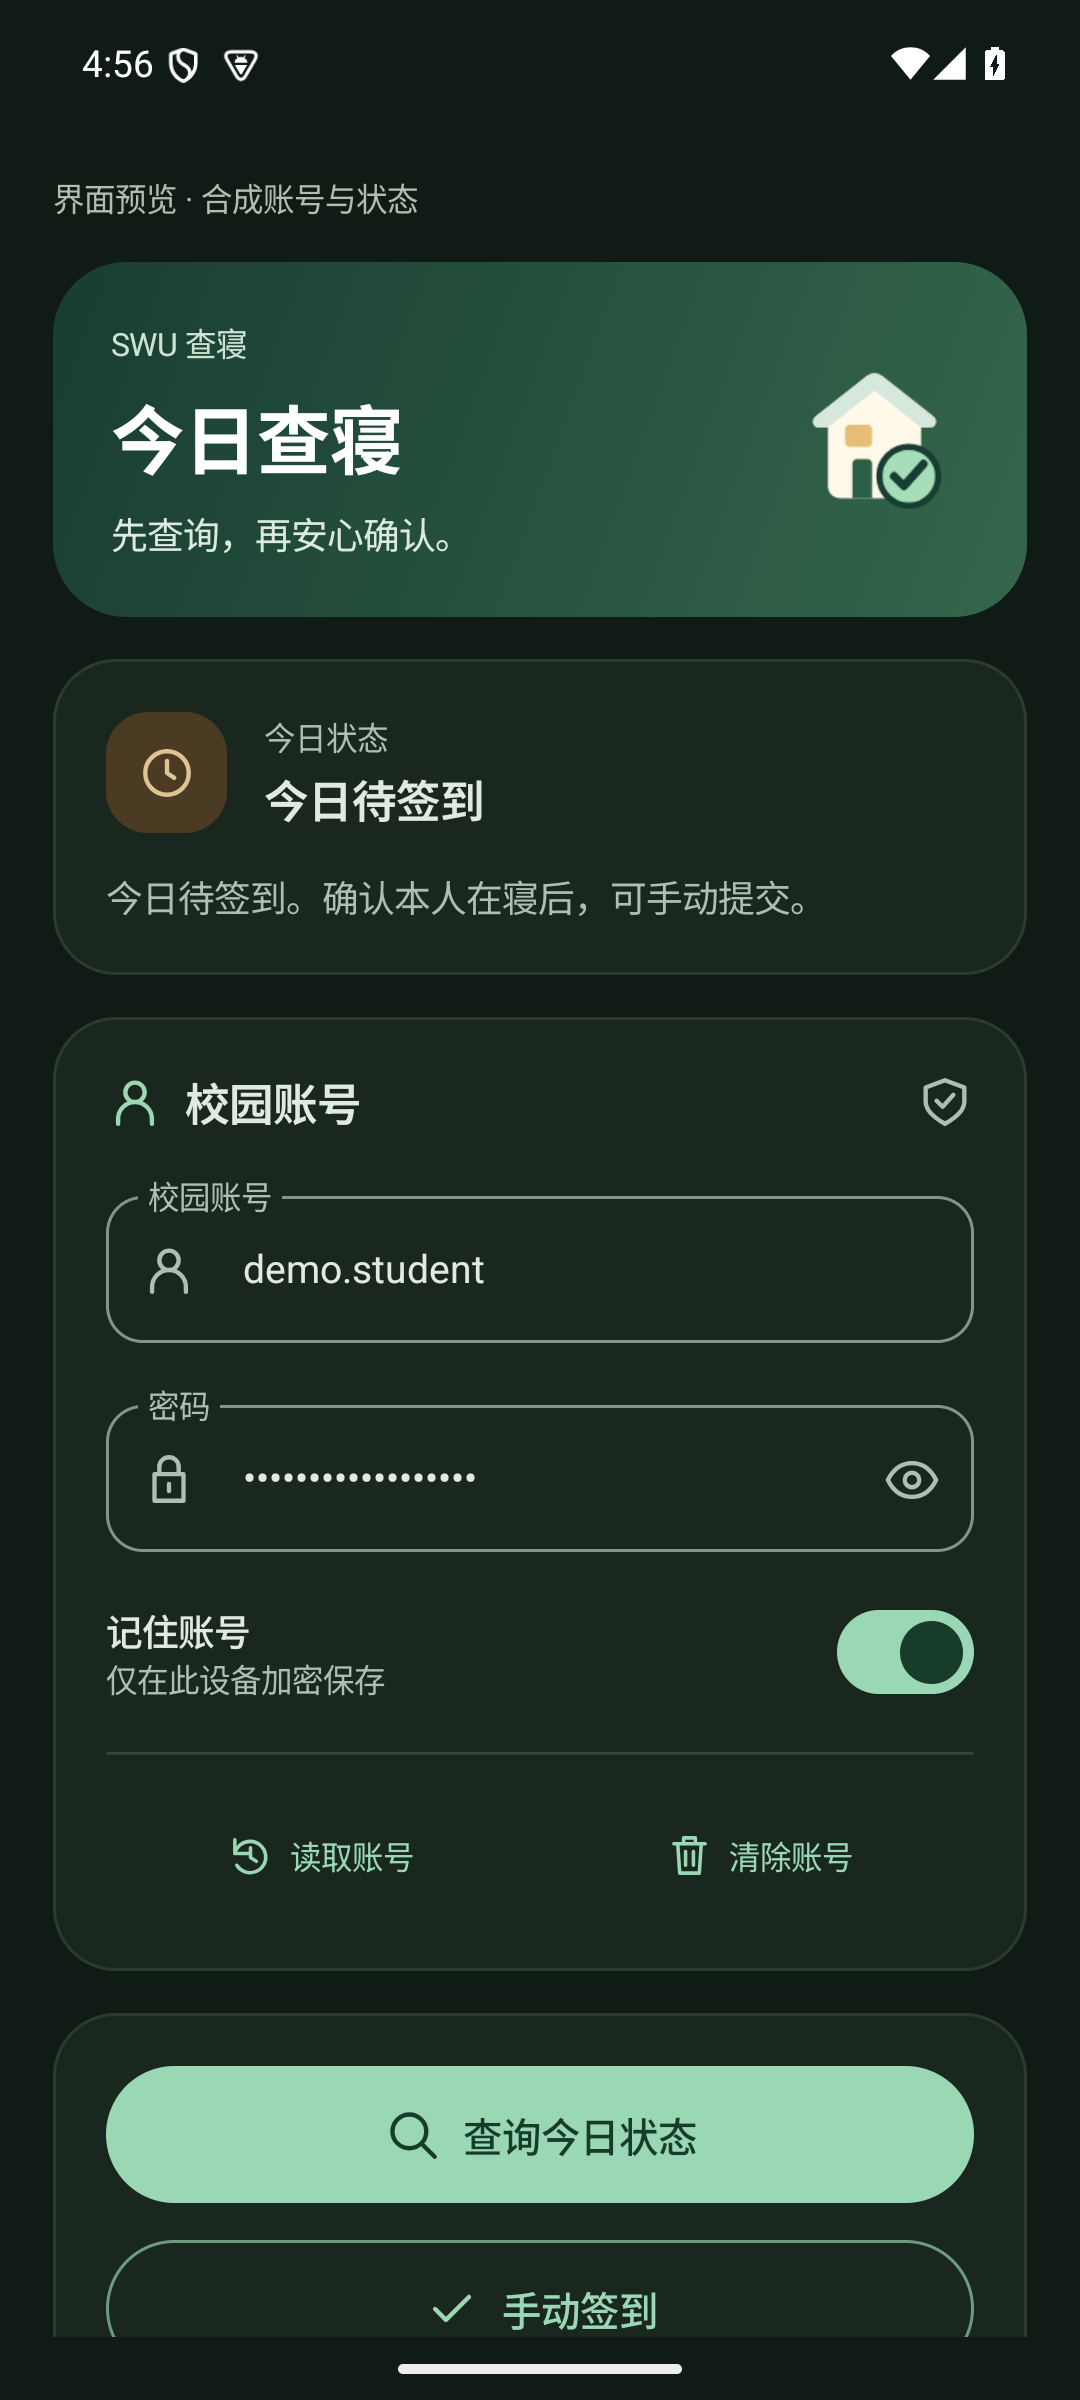
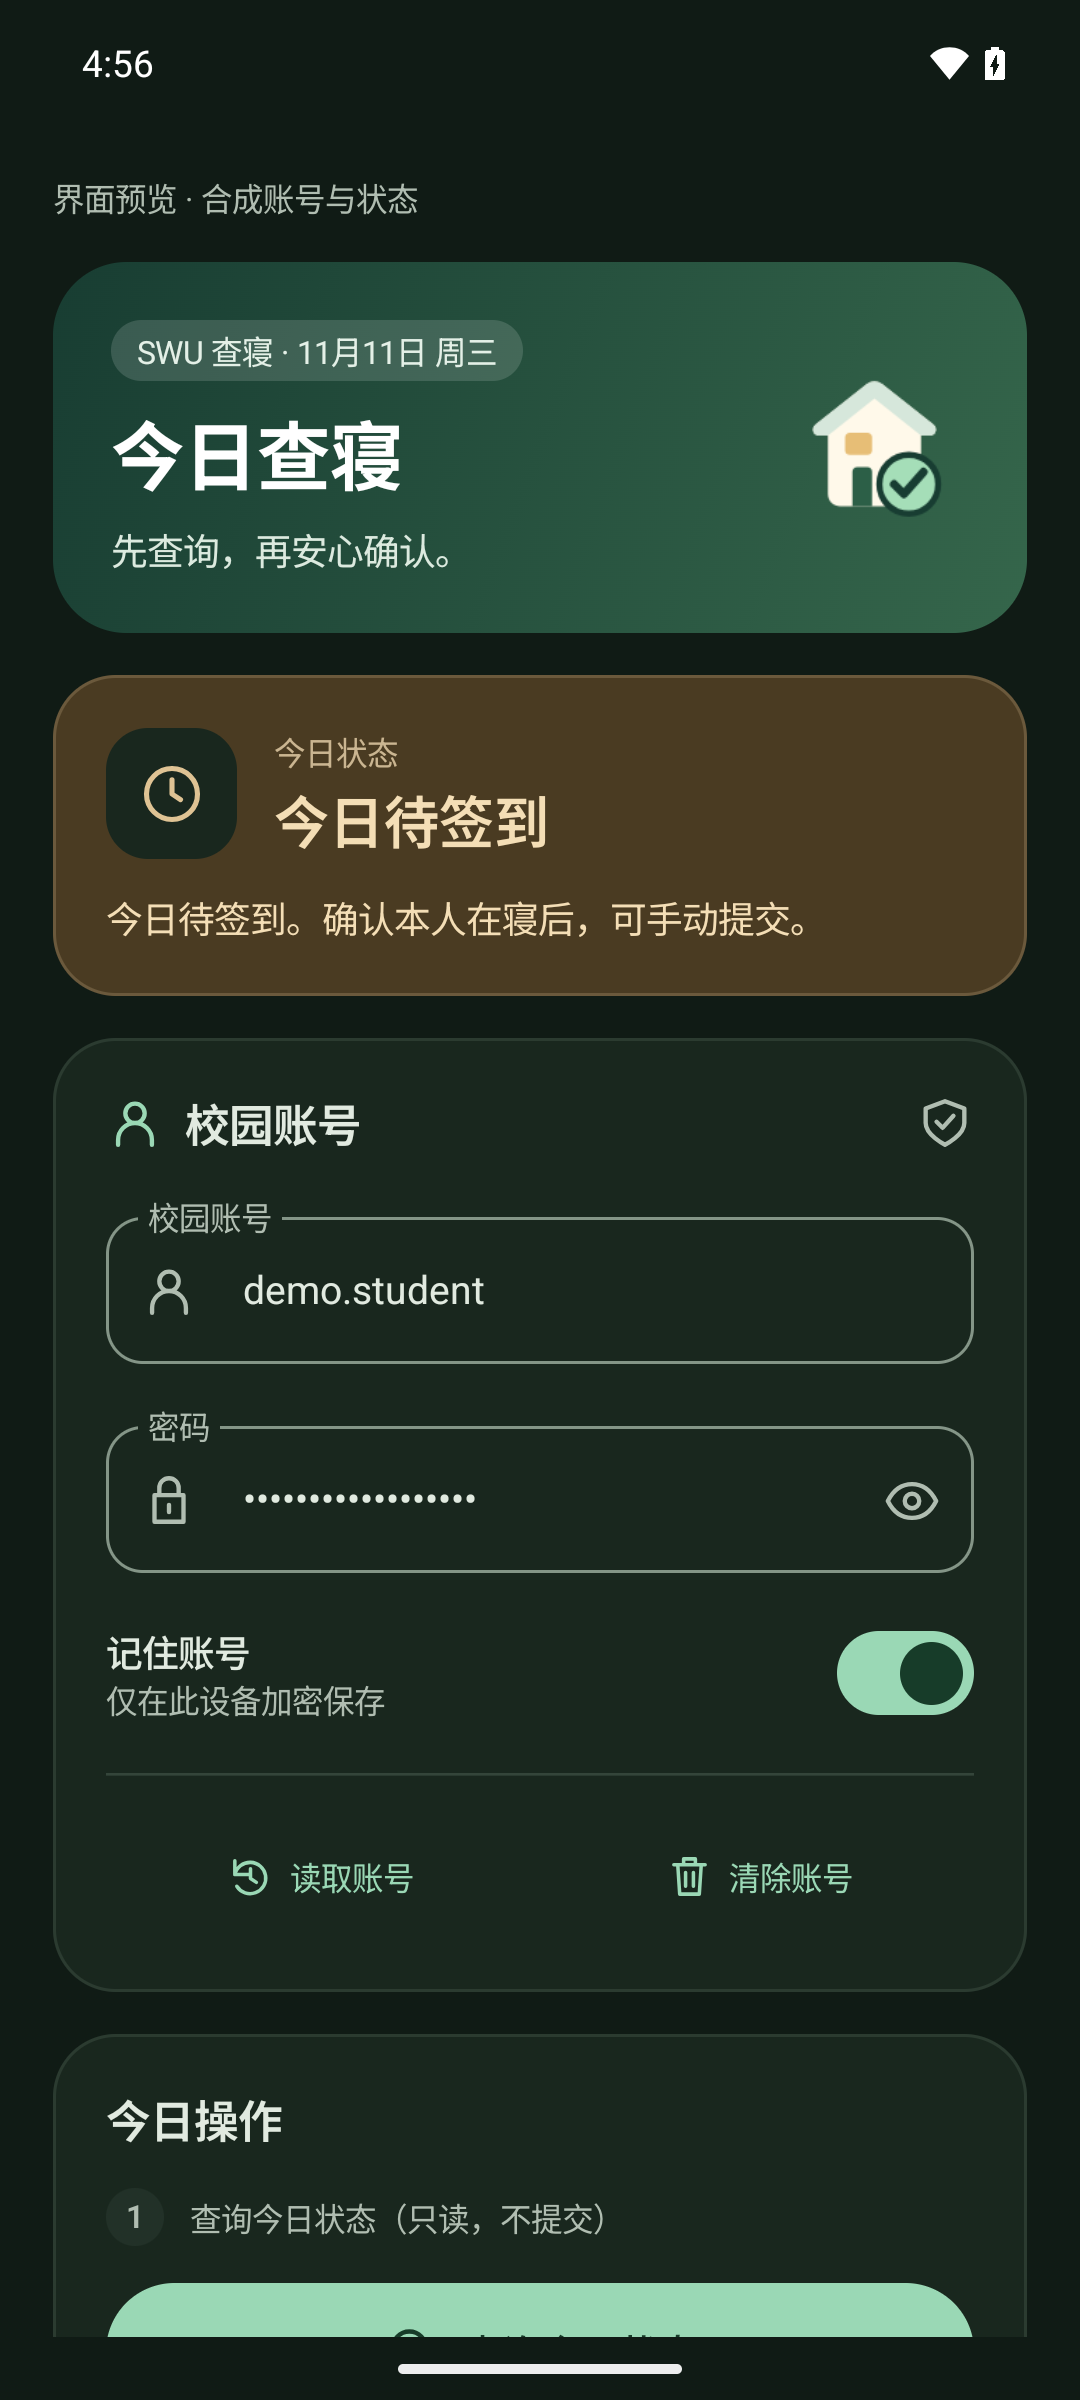
feat(ui): keep the Android date pill on one line and refresh previews
- Use the short weekday (周三) and ellipsize so 1.5x font scale never wraps
  the hero date pill.
- Re-capture light, dark and 1.5x previews from the debug
  DesignPreviewActivity on an API 35 1080x2400 emulator (status bar frozen
  at 4:56 via SystemUI demo mode) and rebuild ui-preview.png at its
  existing 1320x1330 layout, now labelled Android 1.0.0.

Verified locally: assembleDebug, lintDebug and CheckinUiTest on the
emulator.

diff --git a/android/app/src/main/java/io/github/maximorabyte/swucheckin/SwuUi.kt b/android/app/src/main/java/io/github/maximorabyte/swucheckin/SwuUi.kt
@@ -28,6 +28,7 @@ import androidx.compose.ui.text.input.ImeAction
 import androidx.compose.ui.text.input.KeyboardType
 import androidx.compose.ui.text.input.PasswordVisualTransformation
 import androidx.compose.ui.text.input.VisualTransformation
+import androidx.compose.ui.text.style.TextOverflow
 import androidx.compose.ui.unit.dp
 import java.text.SimpleDateFormat
 import java.util.Date
@@ -88,9 +89,10 @@ internal fun CheckinScreen(state: CheckinUiState, actions: CheckinUiActions, pre
                 .padding(22.dp), verticalAlignment = Alignment.CenterVertically,
                 horizontalArrangement = Arrangement.spacedBy(12.dp)) {
                 Column(Modifier.weight(1f), verticalArrangement = Arrangement.spacedBy(7.dp)) {
-                    val today = remember { SimpleDateFormat("M月d日 EEEE", Locale.CHINA).format(Date()) }
+                    val today = remember { SimpleDateFormat("M月d日 EEE", Locale.CHINA).format(Date()) }
                     Surface(shape = RoundedCornerShape(50), color = Color.White.copy(alpha = 0.14f)) {
                         Text("SWU 查寝 · $today", style = MaterialTheme.typography.bodySmall, color = Color(0xFFE4F0E7),
+                            maxLines = 1, overflow = TextOverflow.Ellipsis,
                             modifier = Modifier.padding(horizontal = 10.dp, vertical = 3.dp))
                     }
                     Text("今日查寝", style = MaterialTheme.typography.headlineMedium, color = Color.White)
